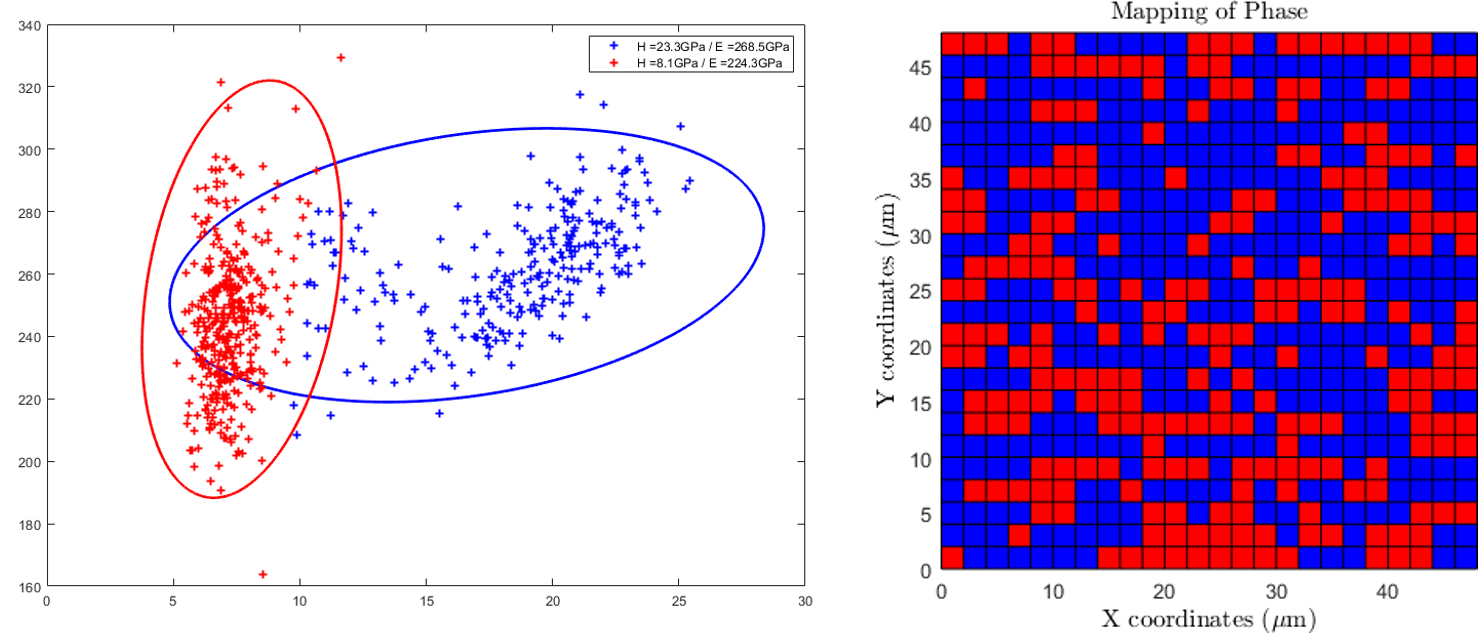
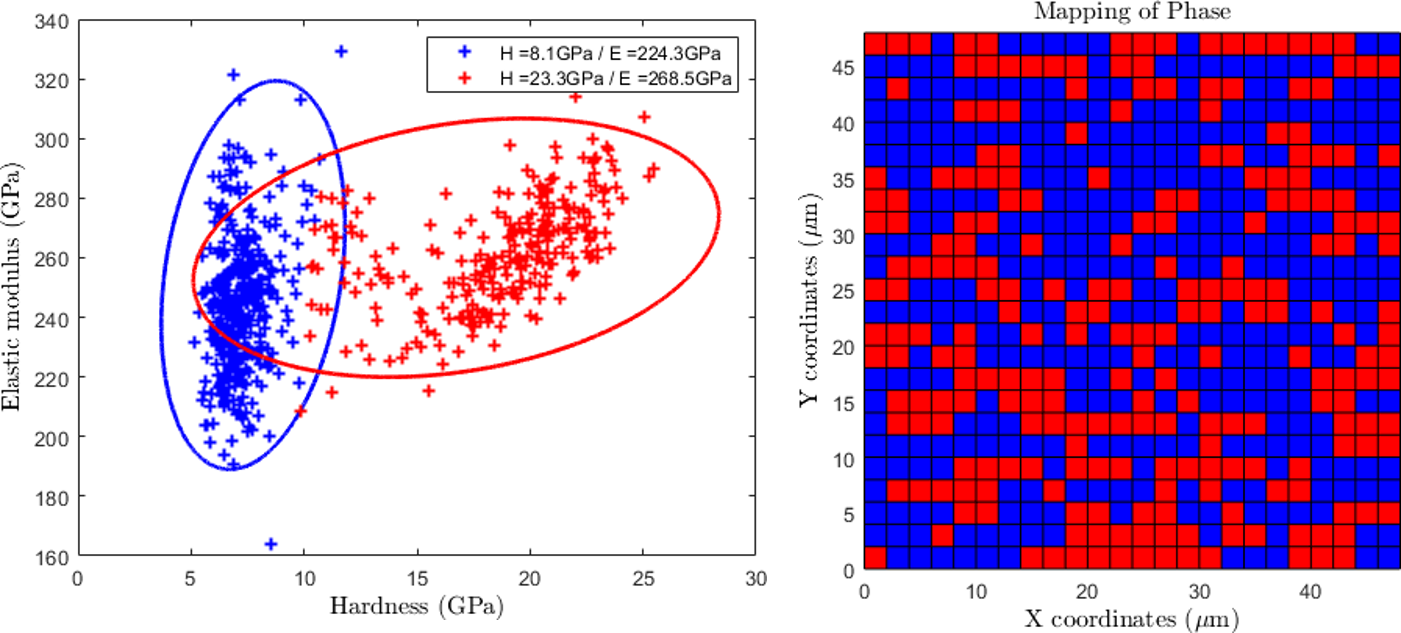
corrected code and doc

diff --git a/matlab_code/module_mapping/TriDiMap_runPlot.m b/matlab_code/module_mapping/TriDiMap_runPlot.m
@@ -328,16 +328,6 @@ else
                     text(x,0.90*y,strcat('E = ',num2str(meanE), gui.config.strUnit_Property), 'Color', colorT4);
                 end
                 hold on;
-                if ~config.FrenchLeg
-                    hXLabel = xlabel(strcat({'Hardness ('},gui.config.strUnit_Property, ')'));
-                    hYLabel = ylabel(strcat({'Elastic modulus ('},gui.config.strUnit_Property, ')'));
-                else
-                    xlabel(strcat({'Duret''e ('},gui.config.strUnit_Property, ')'));
-                    hYLabel = ylabel(strcat({'Module d''\''elasticit\''e ('},gui.config.strUnit_Property, ')'));
-                end
-                set([hXLabel, hYLabel], ...
-                    'Color', [0,0,0], 'FontSize', gui.config.FontSizeVal, ...
-                    'Interpreter', 'Latex');
                 
                 if gui.config.plotThresLines
                     xData_HThres = ones(1,2001) * gui.config.HVal_ThresLines;
@@ -432,7 +422,7 @@ else
                     end
                 end
                 if get(gui.handles.cb_plotEllipse_GUI, 'Value')
-                    legend(hPlot(:),legendInfo); 
+                    legend(hPlot(:),legendInfo);
                 end
             else
                 cla;
@@ -440,7 +430,18 @@ else
                 TriDiMap_plot;
             end
         end
-        
+        if ~gui.config.plotSectMap
+            if ~config.FrenchLeg
+                hXLabel = xlabel(strcat({'Hardness ('},gui.config.strUnit_Property, ')'));
+                hYLabel = ylabel(strcat({'Elastic modulus ('},gui.config.strUnit_Property, ')'));
+            else
+                xlabel(strcat({'Duret''e ('},gui.config.strUnit_Property, ')'));
+                hYLabel = ylabel(strcat({'Module d''\''elasticit\''e ('},gui.config.strUnit_Property, ')'));
+            end
+            set([hXLabel, hYLabel], ...
+                'Color', [0,0,0], 'FontSize', gui.config.FontSizeVal, ...
+                'Interpreter', 'Latex');
+        end
     elseif config.property == 4 || config.property == 5
         if config.flag_data
             % Histograms plot

diff --git a/matlab_code/gui/TriDiMap_setGUI.m b/matlab_code/gui/TriDiMap_setGUI.m
@@ -544,8 +544,8 @@ if module == 1
     handles.cb_plotEllipse_GUI = uicontrol('Parent', handles.bg_property_GUI_3,...
         'Units', 'normalized',...
         'Style', 'checkbox',...
-        'Position', [0.02 0.45 0.48 0.10],...
-        'String', 'Plot phase bubbles',...
+        'Position', [0.02 0.45 0.80 0.10],...
+        'String', 'Plot phase bubbles / Legend',...
         'Value', 0,...
         'Callback', 'TriDiMap_runPlot');
     
